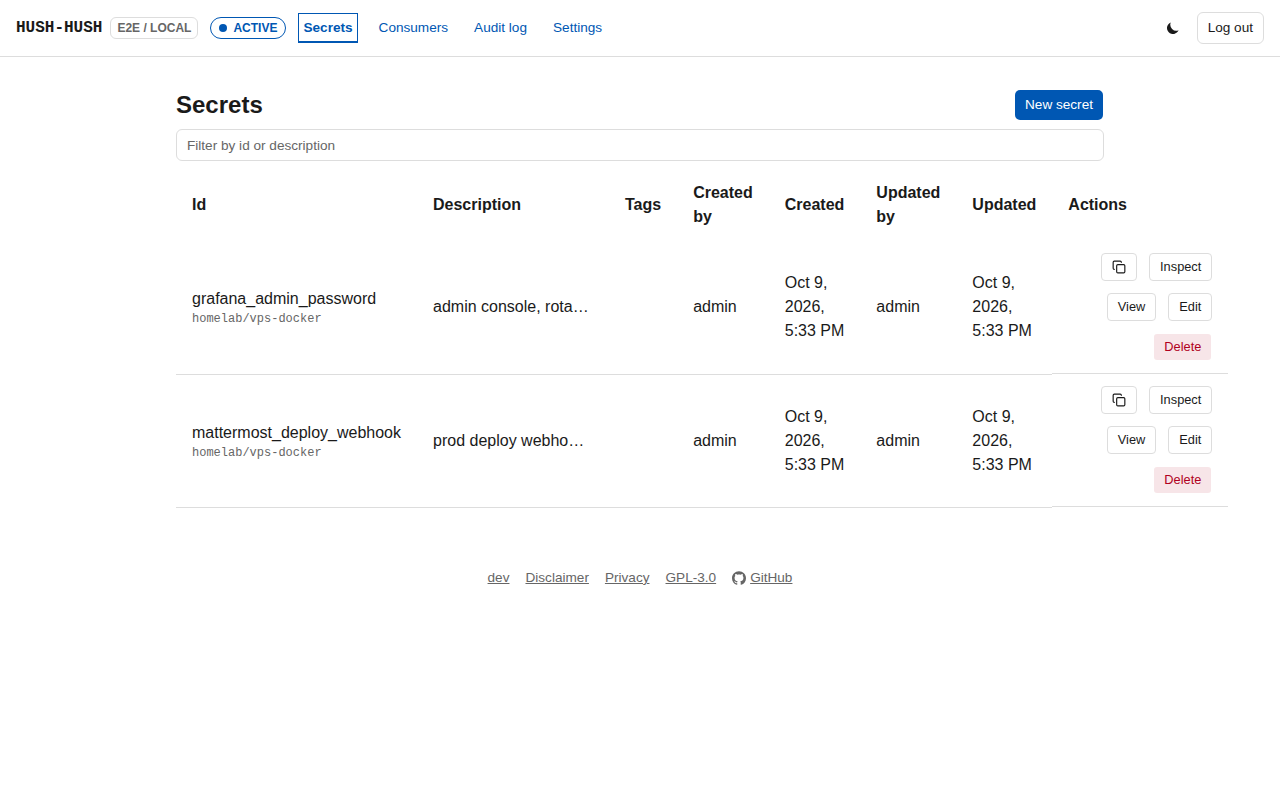
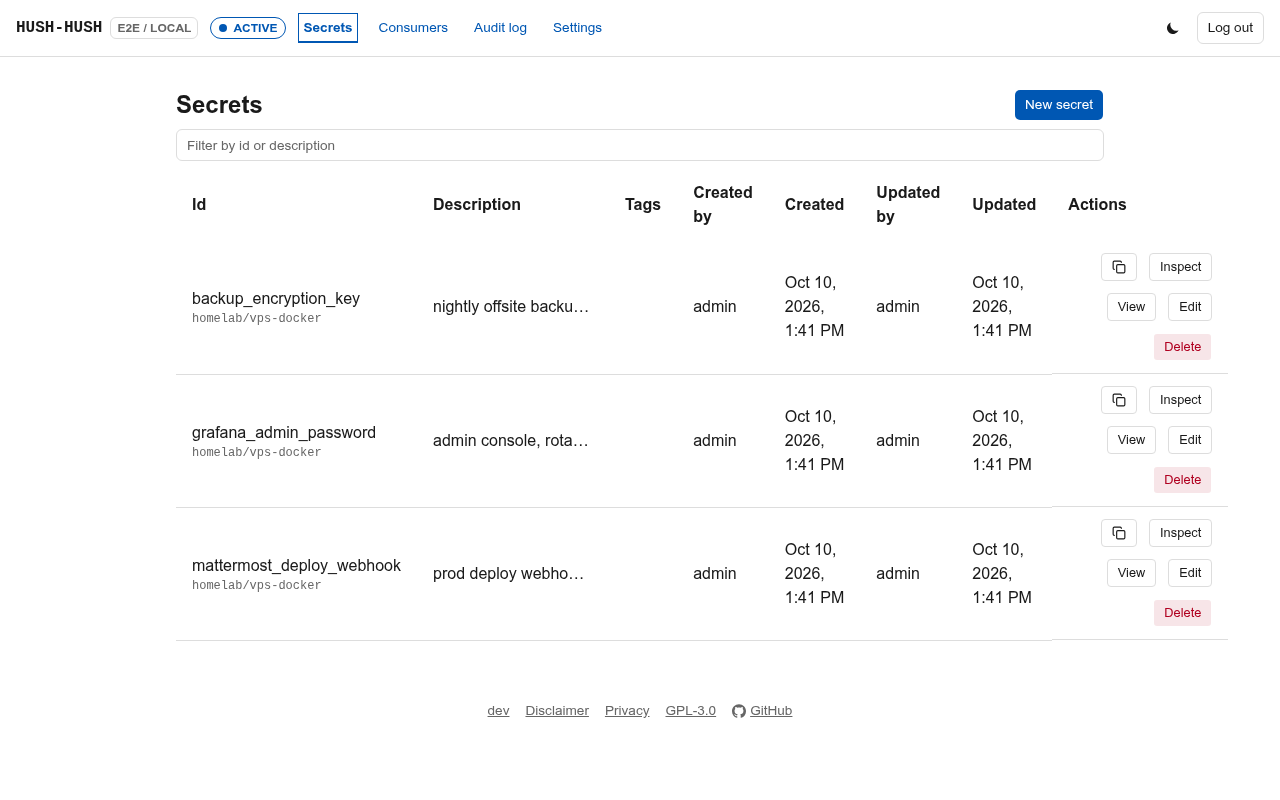
docs: show every web UI page in the README (#755)
* test(web-ui): capture every page except the footer's in the README screenshots

The script only photographed the secrets overview. It now also captures
login (before registering), secret detail, consumers, audit log and
settings, in light and dark.

It also waited for the wrong thing after each create: "New secret" is
on screen throughout, so the last sample secret was dropped whenever the
next navigation beat its request. It waits for the new row now.

Refs #751

* docs: show every web UI page in the README

One light and one dark screenshot each for login, secrets, secret
detail, consumers, audit log and settings. The footer pages are left
out on purpose.

Closes #751

---------

diff --git a/cmd/hush-hush/web/e2e/screenshots.ts b/cmd/hush-hush/web/e2e/screenshots.ts
@@ -1,4 +1,4 @@
-// Captures the README's light/dark screenshots against the real running
+// Captures the README's light/dark screenshots of every page except the footer's against the real running
 // binary - a standalone script, not a Playwright test, since it has no
 // pass/fail assertion of its own and isn't part of the normal `test:e2e`
 // run. e2e/server.sh is what actually builds and starts the server;
@@ -15,6 +15,22 @@ const outDir = process.env.SCREENSHOT_OUT_DIR ?? '../../../docs/screenshots';
 // (client-side sealing, #395): sealing to nobody is no longer possible,
 // screenshots included.
 const CONSUMER = 'homelab/vps-docker';
+
+const COLOR_SCHEMES = ['light', 'dark'] as const;
+
+// Every page behind the login except the footer's (changelog, disclaimer,
+// privacy, licence), which are plain text and not worth a README image.
+const PAGES = [
+	{ name: 'secrets', path: '/', heading: 'Secrets' },
+	{
+		name: 'secret',
+		path: '/secrets/mattermost_deploy_webhook',
+		heading: 'mattermost_deploy_webhook',
+	},
+	{ name: 'consumers', path: '/consumers', heading: 'Consumers' },
+	{ name: 'audit-log', path: '/audit-log', heading: 'Audit log' },
+	{ name: 'settings', path: '/settings', heading: 'Settings' },
+] as const;
 
 const SAMPLE_SECRETS = [
 	{
@@ -50,7 +66,16 @@ await client.send('WebAuthn.addVirtualAuthenticator', {
 	},
 });
 
+await page.setViewportSize({ width: 1280, height: 800 });
+
+// The login page is only reachable signed out, so it is captured before the
+// passkey registration below, not alongside the other pages.
 await page.goto(`${base}/login`);
+for (const colorScheme of COLOR_SCHEMES) {
+	await page.emulateMedia({ colorScheme });
+	await page.getByRole('heading', { name: 'hush-hush' }).waitFor();
+	await page.screenshot({ path: `${outDir}/login-${colorScheme}.png` });
+}
 await page.getByRole('button', { name: 'Register passkey' }).click();
 
 // A first-ever registration shows the one-time recovery-phrase dialog
@@ -91,21 +116,39 @@ for (const secret of SAMPLE_SECRETS) {
 	await page.getByRole('listbox').waitFor();
 	await page.getByRole('option').first().click();
 	await page.getByRole('button', { name: 'Create' }).click();
-	await page.getByRole('button', { name: 'New secret' }).waitFor();
+	// "New secret" is on screen the whole time, so it can't say the create
+	// finished - the new row can. Without this the last secret was dropped
+	// whenever the next step navigated away before its request landed.
+	await page.getByRole('cell', { name: secret.id }).first().waitFor();
 }
 
-await page.setViewportSize({ width: 1280, height: 800 });
+// Opening a secret writes a `read` row to the audit log, so open each one
+// once up front: both colour schemes then show the same events, whichever
+// page is captured first.
+for (const secret of SAMPLE_SECRETS) {
+	await page.goto(`${base}/secrets/${secret.id}`);
+	await page.getByRole('heading', { name: secret.id, exact: true }).waitFor();
+}
 
 // One authenticated session, switched between color schemes rather than
 // a second registration - only one admin account can ever exist, so a
 // second bootstrap has nothing left to register against.
-for (const colorScheme of ['light', 'dark'] as const) {
+for (const colorScheme of COLOR_SCHEMES) {
 	await page.emulateMedia({ colorScheme });
-	await page.reload();
-	await page.getByRole('heading', { name: 'Secrets' }).waitFor();
-	await page.screenshot({ path: `${outDir}/secrets-${colorScheme}.png` });
+	for (const { name, path, heading } of PAGES) {
+		await page.goto(`${base}${path}`);
+		// The lists fill in after the heading renders; wait for them to settle.
+		await page.waitForLoadState('networkidle');
+		await page
+			.getByRole('heading', { name: heading, exact: true })
+			.first()
+			.waitFor();
+		await page.screenshot({ path: `${outDir}/${name}-${colorScheme}.png` });
+	}
 }
 
 await browser.close();
 
-console.log('Wrote docs/screenshots/secrets-light.png and secrets-dark.png');
+console.log(
+	`Wrote ${(PAGES.length + 1) * COLOR_SCHEMES.length} screenshots to docs/screenshots/`,
+);

diff --git a/README.md b/README.md
@@ -133,8 +133,48 @@ schemas come from a running server's own `tools/list` call, not the spec.
 
 ### Web UI
 
-![Secrets overview, light mode](docs/screenshots/secrets-light.png)
-![Secrets overview, dark mode](docs/screenshots/secrets-dark.png)
+#### Login
+
+Sign in with a passkey, or register the first one.
+
+![Login, light mode](docs/screenshots/login-light.png)
+![Login, dark mode](docs/screenshots/login-dark.png)
+
+#### Secrets
+
+Every secret, who last touched it and when.
+
+![Secrets, light mode](docs/screenshots/secrets-light.png)
+![Secrets, dark mode](docs/screenshots/secrets-dark.png)
+
+#### Secret detail
+
+The sealed ciphertext, the CLI command to fetch it, its authorised
+consumers and recent activity.
+
+![Secret detail, light mode](docs/screenshots/secret-light.png)
+![Secret detail, dark mode](docs/screenshots/secret-dark.png)
+
+#### Consumers
+
+The age public keys that can read secrets.
+
+![Consumers, light mode](docs/screenshots/consumers-light.png)
+![Consumers, dark mode](docs/screenshots/consumers-dark.png)
+
+#### Audit log
+
+Every create, read and delete, filterable and exportable.
+
+![Audit log, light mode](docs/screenshots/audit-log-light.png)
+![Audit log, dark mode](docs/screenshots/audit-log-dark.png)
+
+#### Settings
+
+Passkeys, bearer tokens and consumer tokens.
+
+![Settings, light mode](docs/screenshots/settings-light.png)
+![Settings, dark mode](docs/screenshots/settings-dark.png)
 
 Set `PUBLIC_URL` (the URL you'll actually reach the server at - for
 example `https://hush-hush.example.com`, or `http://localhost:8080` for
